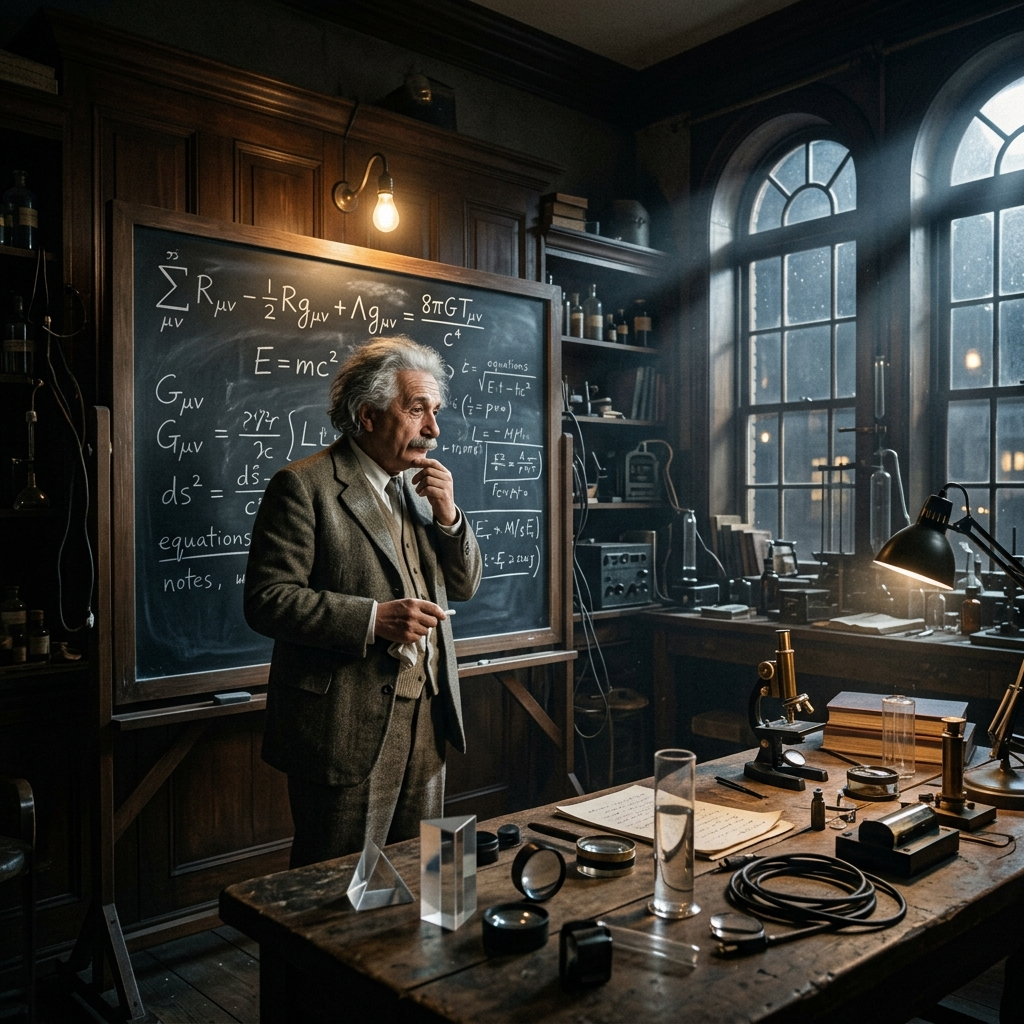
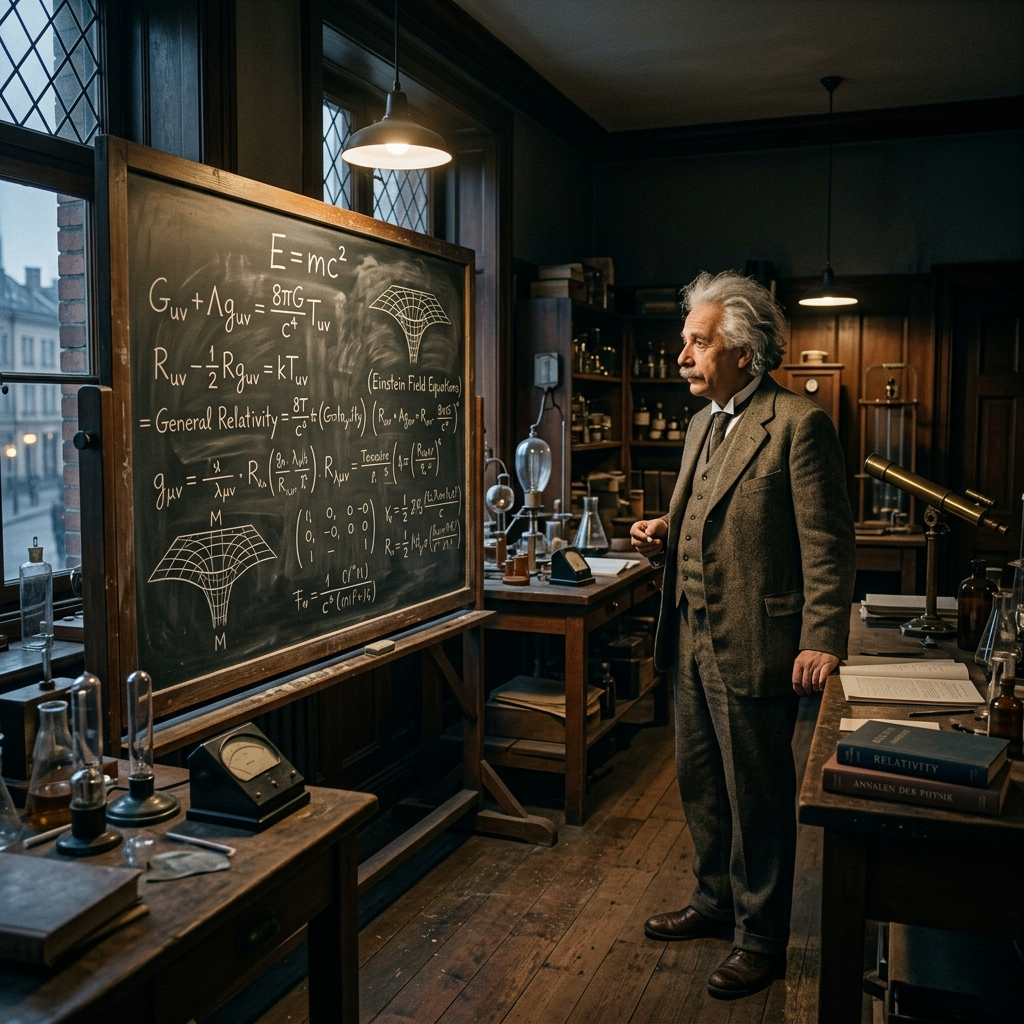
feat: replace Einstein background image with right-positioned version, disable mirror

diff --git a/src/components/PhysicsDashboard.js b/src/components/PhysicsDashboard.js
@@ -44,9 +44,9 @@ const heroSlides = [
     image: '/images/hero_einstein.png',
     si: 'ඇල්බට් අයින්ස්ටයින්',
     en: 'Albert Einstein',
-    position: '50% 45%',
-    size: '120%',
-    mirror: true
+    position: 'center',
+    size: 'cover',
+    mirror: false
   },
   {
     image: '/images/hero_tesla.png',